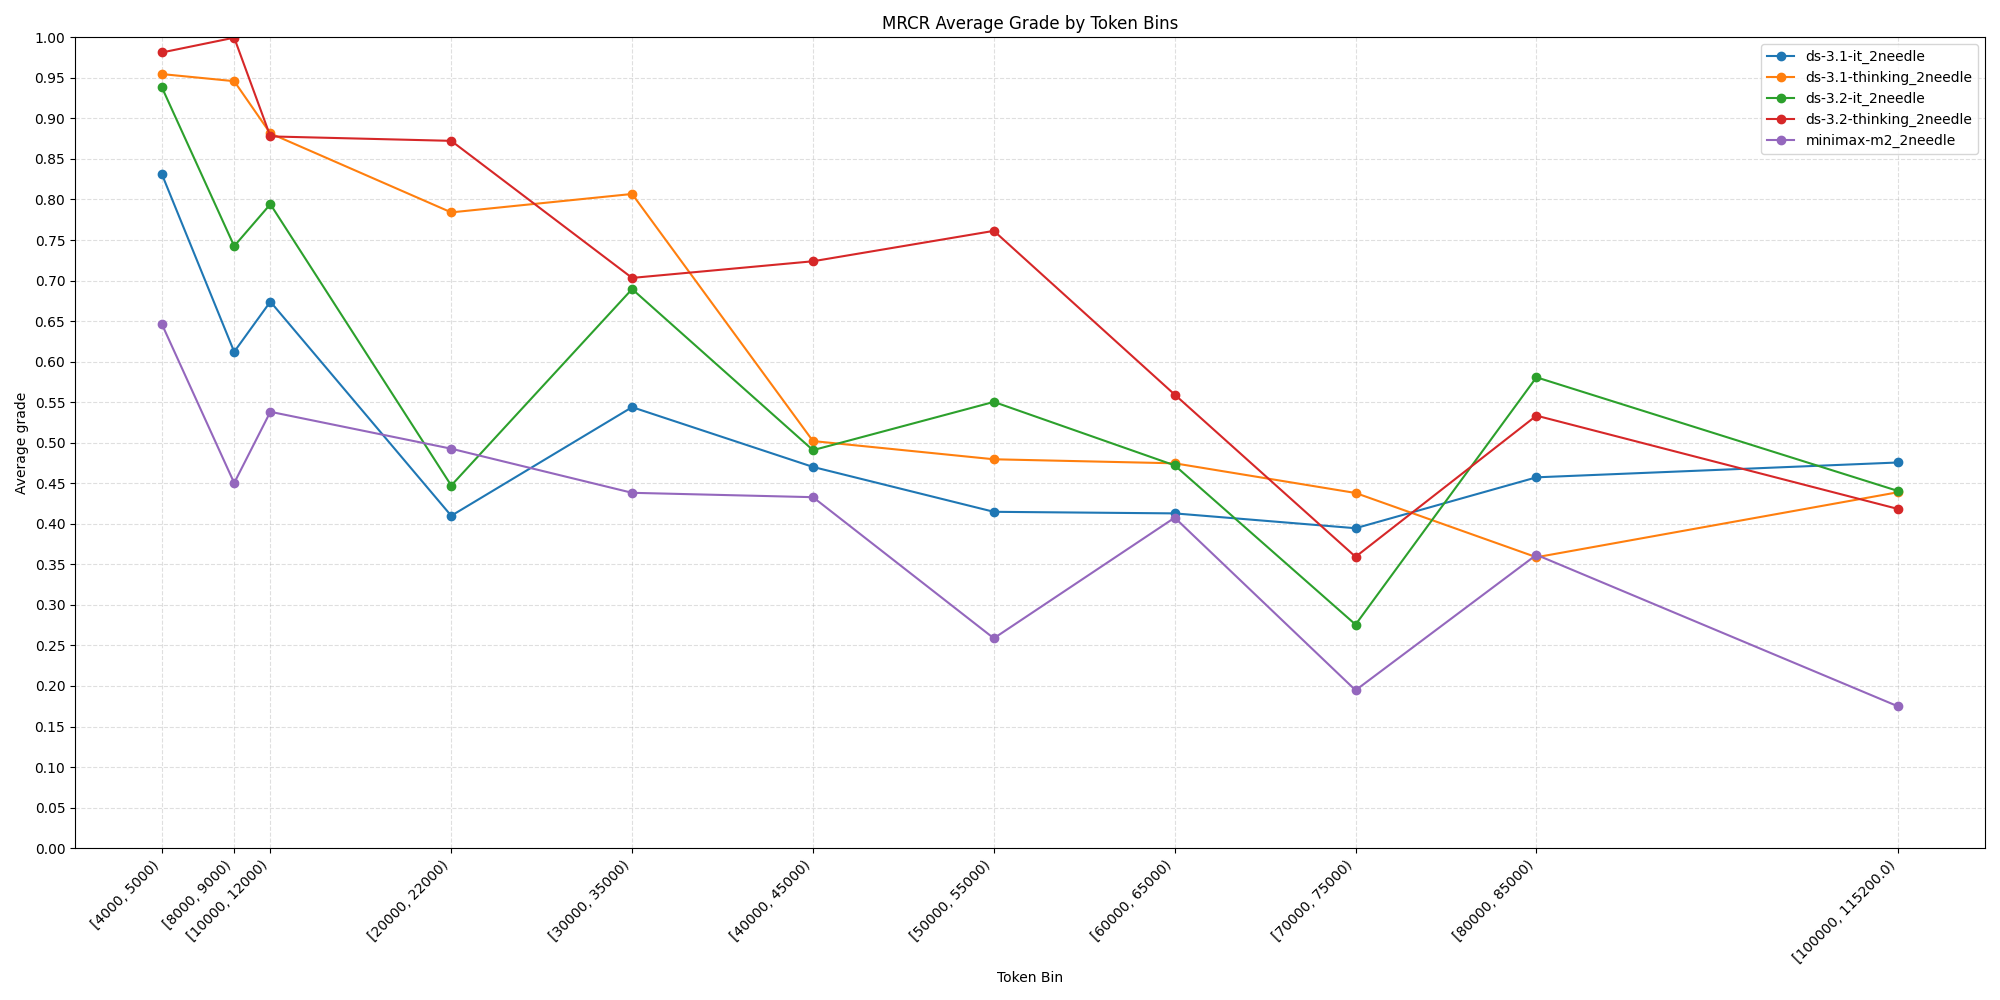
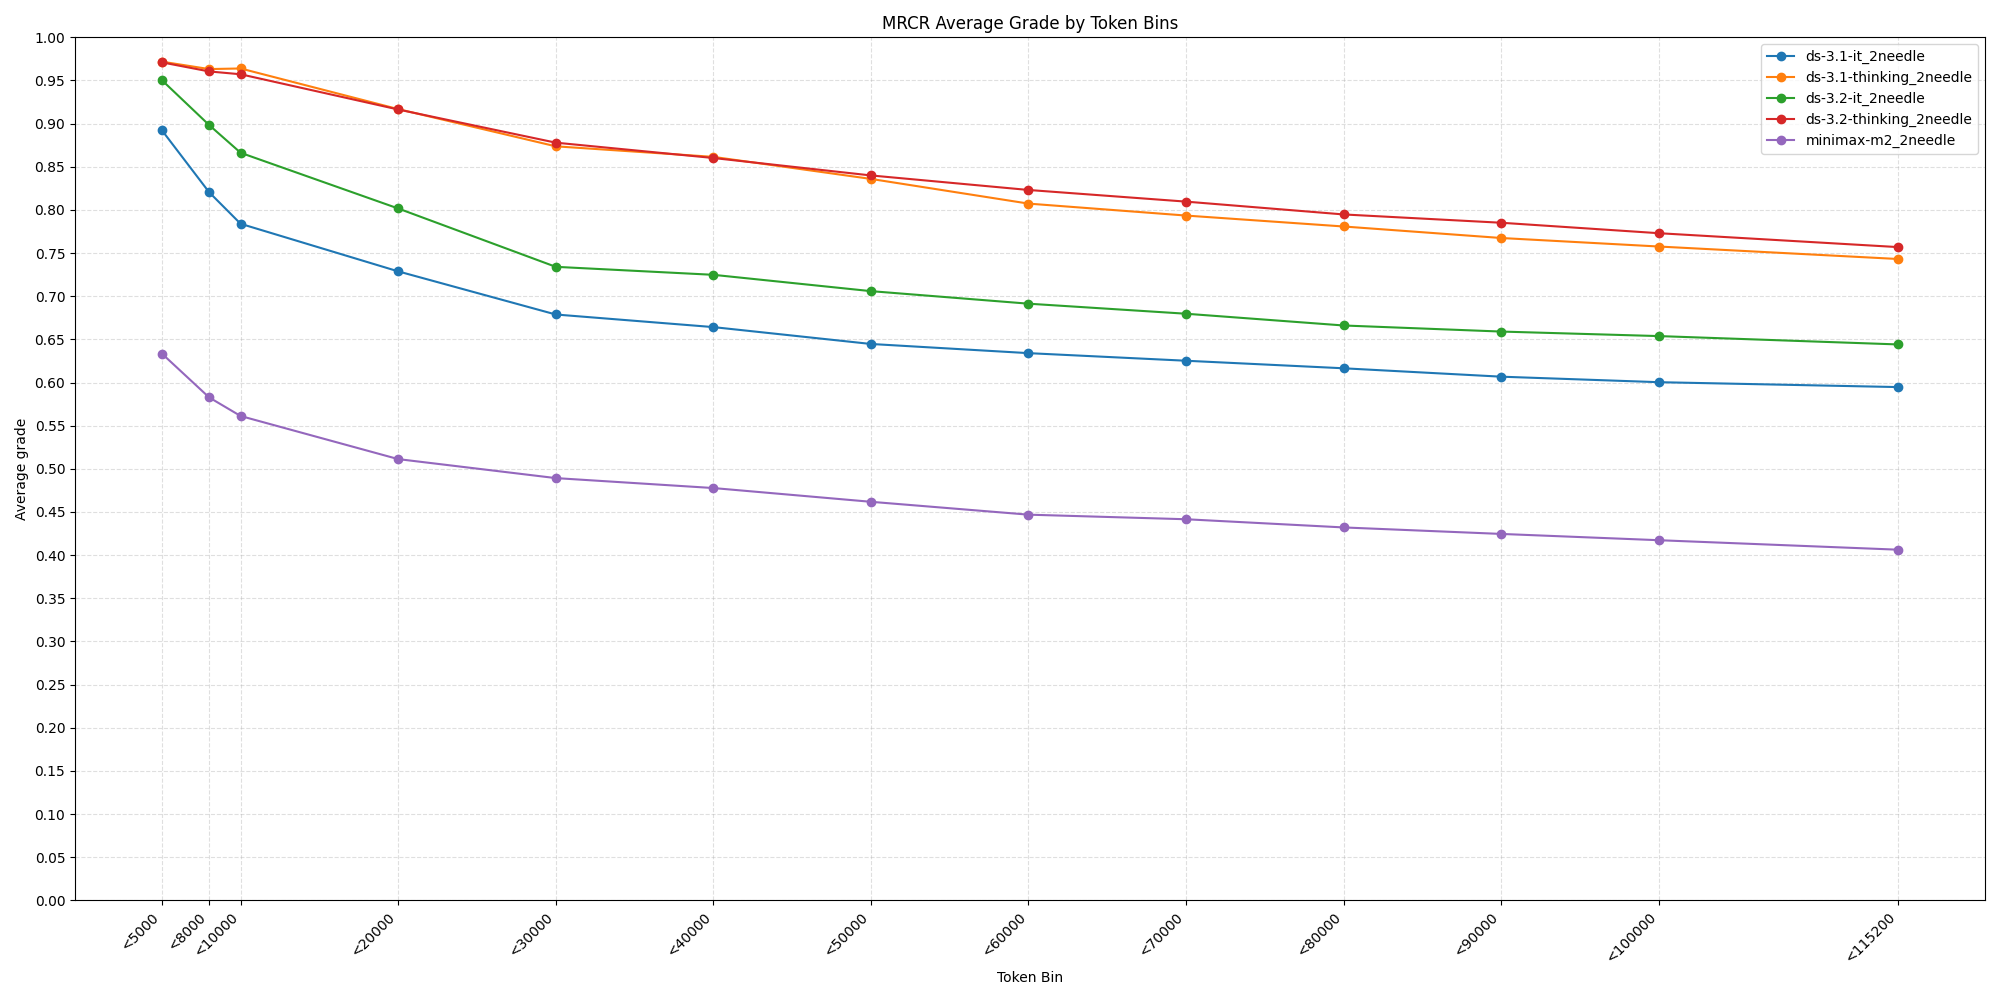
refactor(sorted_data): change binning approach from ranges to cumulative thresholds
The accuracy calculation is now based on cumulative thresholds (<t) rather than fixed ranges [start, end). This provides a more intuitive view of model performance across increasing token counts. The change affects both the calculation logic and output format, including the visualization and CSV output.

diff --git a/sorted_data.py b/sorted_data.py
@@ -5,21 +5,9 @@ import re
 import matplotlib.pyplot as plt
 
 START_TOKEN = 4000
-MAX_TOKEN = 128000*0.9
+MAX_TOKEN = int(128000*0.9)
 
-bins = [
-    (START_TOKEN, 5000),
-    (8000,9000),
-    (10000, 12000),
-    (20000, 22000),
-    (30000, 35000),
-    (40000, 45000),
-    (50000, 55000),
-    (60000, 65000),
-    (70000, 75000),
-    (80000, 85000),
-    (100000, MAX_TOKEN),
-]
+bins = [5000,8000,10000,20000,30000,40000,50000,60000,70000,80000,90000,100000,MAX_TOKEN]
 
 def extract_model_name(filename: str) -> str:
     base = os.path.basename(filename)
@@ -28,20 +16,20 @@ def extract_model_name(filename: str) -> str:
         raise ValueError(f"Cannot extract model name from filename: {filename}")
     return m.group(1)
 
-def accuracy_by_bins(df: pd.DataFrame, bins: list[tuple[int, int]]):
+def accuracy_by_bins(df: pd.DataFrame, bins: list[int]):
     if 'grade' not in df.columns or 'token_count' not in df.columns:
         raise ValueError("CSV must contain 'grade' and 'token_count' columns")
     df = df.copy()
     df['grade'] = pd.to_numeric(df['grade'], errors='coerce')
     df['token_count'] = pd.to_numeric(df['token_count'], errors='coerce')
-    df = df[(df['token_count'] >= START_TOKEN) & (df['token_count'] < MAX_TOKEN)]
+    # 累积阈值统计：对每个阈值 t 计算 token_count < t 的平均分
     out = {}
-    for start, end in bins:
-        bin_df = df[(df['token_count'] >= start) & (df['token_count'] < end)]
-        total = len(bin_df)
-        sum_grade = float(bin_df['grade'].sum())
+    for t in bins:
+        thresh_df = df[df['token_count'] < t]
+        total = len(thresh_df)
+        sum_grade = float(thresh_df['grade'].sum())
         avg = (sum_grade / total) if total > 0 else 0.0
-        out[(start, end)] = {
+        out[t] = {
             'avg': avg,
             'count': int(total)
         }
@@ -53,10 +41,9 @@ def main():
         raise FileNotFoundError("'result' directory not found")
 
     all_files = sorted(results_dir.glob('*.csv'))
-    # 仅选择文件名包含 ds-3.1 或 ds-3.2 的 CSV 文件
     files = [f for f in all_files if ("ds-3.1" in f.name or "ds-3.2" in f.name or "minimax" in f.name)]
     if not files:
-        raise FileNotFoundError("未在 'result' 目录中找到包含 ds-3.1 或 ds-3.2 的 CSV 文件")
+        raise FileNotFoundError("没找到对应的文件")
 
     # Use manually defined bins
     # bins = build_bins(START_TOKEN, BIN_WIDTH, MAX_TOKEN)
@@ -69,13 +56,14 @@ def main():
         except ValueError as e:
             print(f"Skip {f}: {e}")
 
-    # Compose compact output: two columns [bin_label, model_accuracies_with_counts]
+    # Compose compact output: 累积阈值标签，例如 <5000、<8000、…、<MAX_TOKEN
+    thresholds = bins
     rows = []
-    for start, end in bins:
-        label = f"[{start}, {end})"
+    for t in thresholds:
+        label = f"<{t}"
         pairs = []
         for model in sorted(per_model.keys()):
-            metric = per_model[model].get((start, end), {'avg': 0.0, 'count': 0})
+            metric = per_model[model].get(t, {'avg': 0.0, 'count': 0})
             acc = metric['avg']
             n = metric['count']
             pairs.append(f"{model}={acc:.6f}|n={n}")
@@ -92,13 +80,13 @@ def main():
     out_df.to_csv(out_path, index=False)
     print(f"Saved results to {out_path}")
 
-    # Plot line chart directly from per_model and bins
-    x_positions_plot = [start for (start, end) in bins]
-    x_labels_plot = [f"[{start}, {end})" for (start, end) in bins]
+    # Plot line chart directly from per_model and thresholds（累积 <t）
+    x_positions_plot = [t for t in thresholds]
+    x_labels_plot = [f"<{t}" for t in thresholds]
 
     plt.figure(figsize=(20, 10))
     for model in sorted(per_model.keys()):
-        ys_plot = [per_model[model].get((start, end), {'avg': 0.0})['avg'] for (start, end) in bins]
+        ys_plot = [per_model[model].get(t, {'avg': 0.0})['avg'] for t in thresholds]
         plt.plot(x_positions_plot, ys_plot, marker="o", linewidth=1.5, label=model)
 
     plt.title("MRCR Average Grade by Token Bins")
